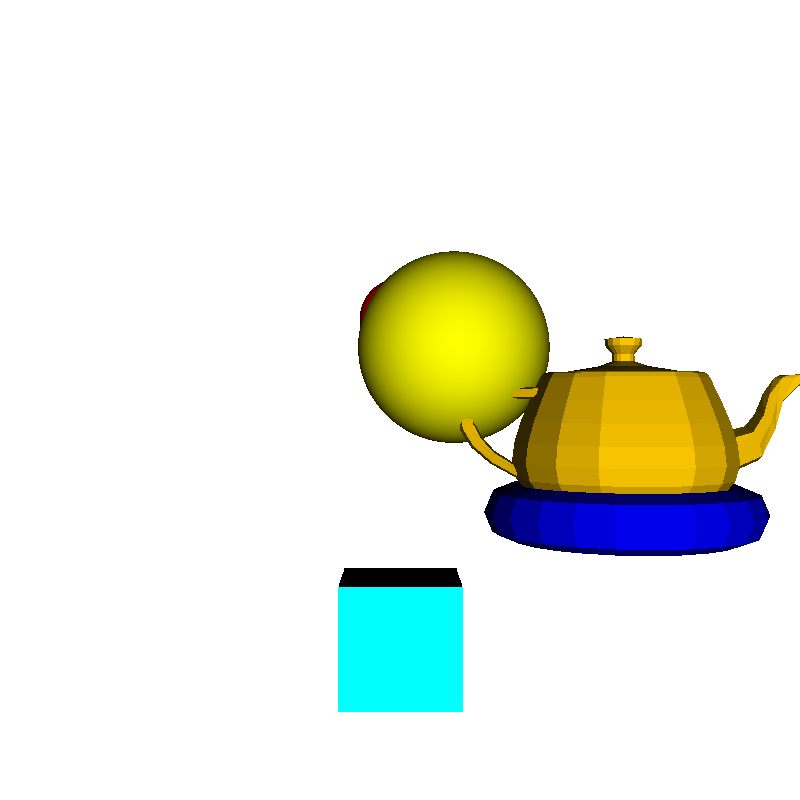
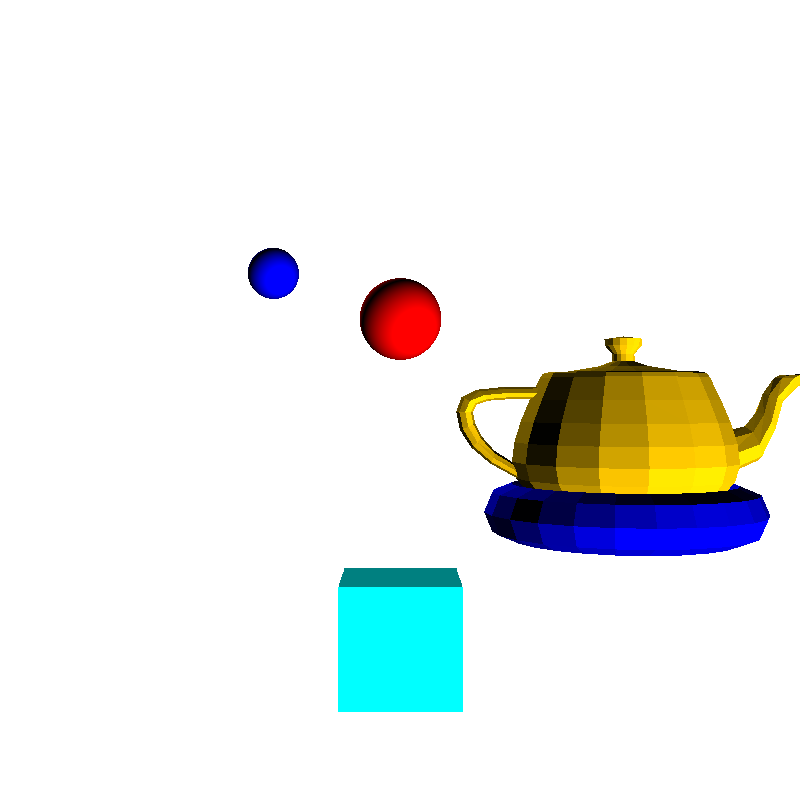
Fixed Directional Light Bug

Changed region(s): [[0.4375, 0.3125, 1.0, 0.7188], [0.4062, 0.6875, 0.5938, 0.75], [0.3125, 0.3125, 0.375, 0.375]]

diff --git a/src/raytracer/Raytracer.java b/src/raytracer/Raytracer.java
@@ -39,14 +39,10 @@ public class Raytracer {
 		Scene sceneRoot = new Scene();
 		// Camera final values are MaxPlane, MinPlane
 		sceneRoot.setCamera(new Camera(new Vector3D(0, 0, -8), 160, 160, 800, 800, 100f, -6f));
-		sceneRoot.setLight(new DirectionalLight(new Vector3D(0f, 0f, 1f)));
+		sceneRoot.setLight(new DirectionalLight(new Vector3D(-.5f, 0.5f, 1f)));
 		
 		sceneRoot.addObject(new Sphere(new Vector3D(0f, 1f, 5f), 0.5f, Color.RED));
-		sceneRoot.addObject(new Sphere(new Vector3D(0.5f, 1f, 4.5f), 0.25f, Color.GREEN));
-		sceneRoot.addObject(new Sphere(new Vector3D(0.35f, 1f, 4.5f), 0.3f, Color.BLUE));
-		sceneRoot.addObject(new Sphere(new Vector3D(2.85f, 1f, 304.5f), 0.5f, Color.BLUE));
-		sceneRoot.addObject(new Sphere(new Vector3D(0.5, 0.5, 2f), 0.9f, Color.YELLOW));
-		sceneRoot.addObject(new Sphere(new Vector3D(3f, 3f, 50f), 2f, Color.BLACK));
+		sceneRoot.addObject(new Sphere(new Vector3D(-1.5f, 1.5f, 4.5f), 0.3f, Color.BLUE));
 		sceneRoot.addObject(OBJReader.GetPolygon("Cube.obj", new Vector3D(0f, -2.5f, 1f), Color.CYAN));
 		sceneRoot.addObject(OBJReader.GetPolygon("smallTeapot.obj", new Vector3D(2f, -1.0f, 1.5f), Color.ORANGE));
 		sceneRoot.addObject(OBJReader.GetPolygon("ring.obj", new Vector3D(2f, -1.0f, 1.5f), Color.blue));
@@ -129,6 +125,15 @@ public class Raytracer {
 	    	float newBlue = Math.abs((((ObjectColor.getBlue() * LightColor.getBlue())/255f) * theMultiplier) / 255f);
 	    	
 	    	//System.out.println("Red: " + newRed + " | Green: " + newGreen + " | Blue: " + newBlue);
+	    	if(newRed > 1) {
+	    		newRed = 1;
+	    	}
+	    	if (newBlue > 1) {
+	    		newBlue = 1;
+	    	}
+	    	if (newGreen > 1) {
+	    		newGreen = 1;
+	    	}
 	    	newColor = new Color(newRed , newGreen, newBlue);
 	    	
 	    	return newColor;
